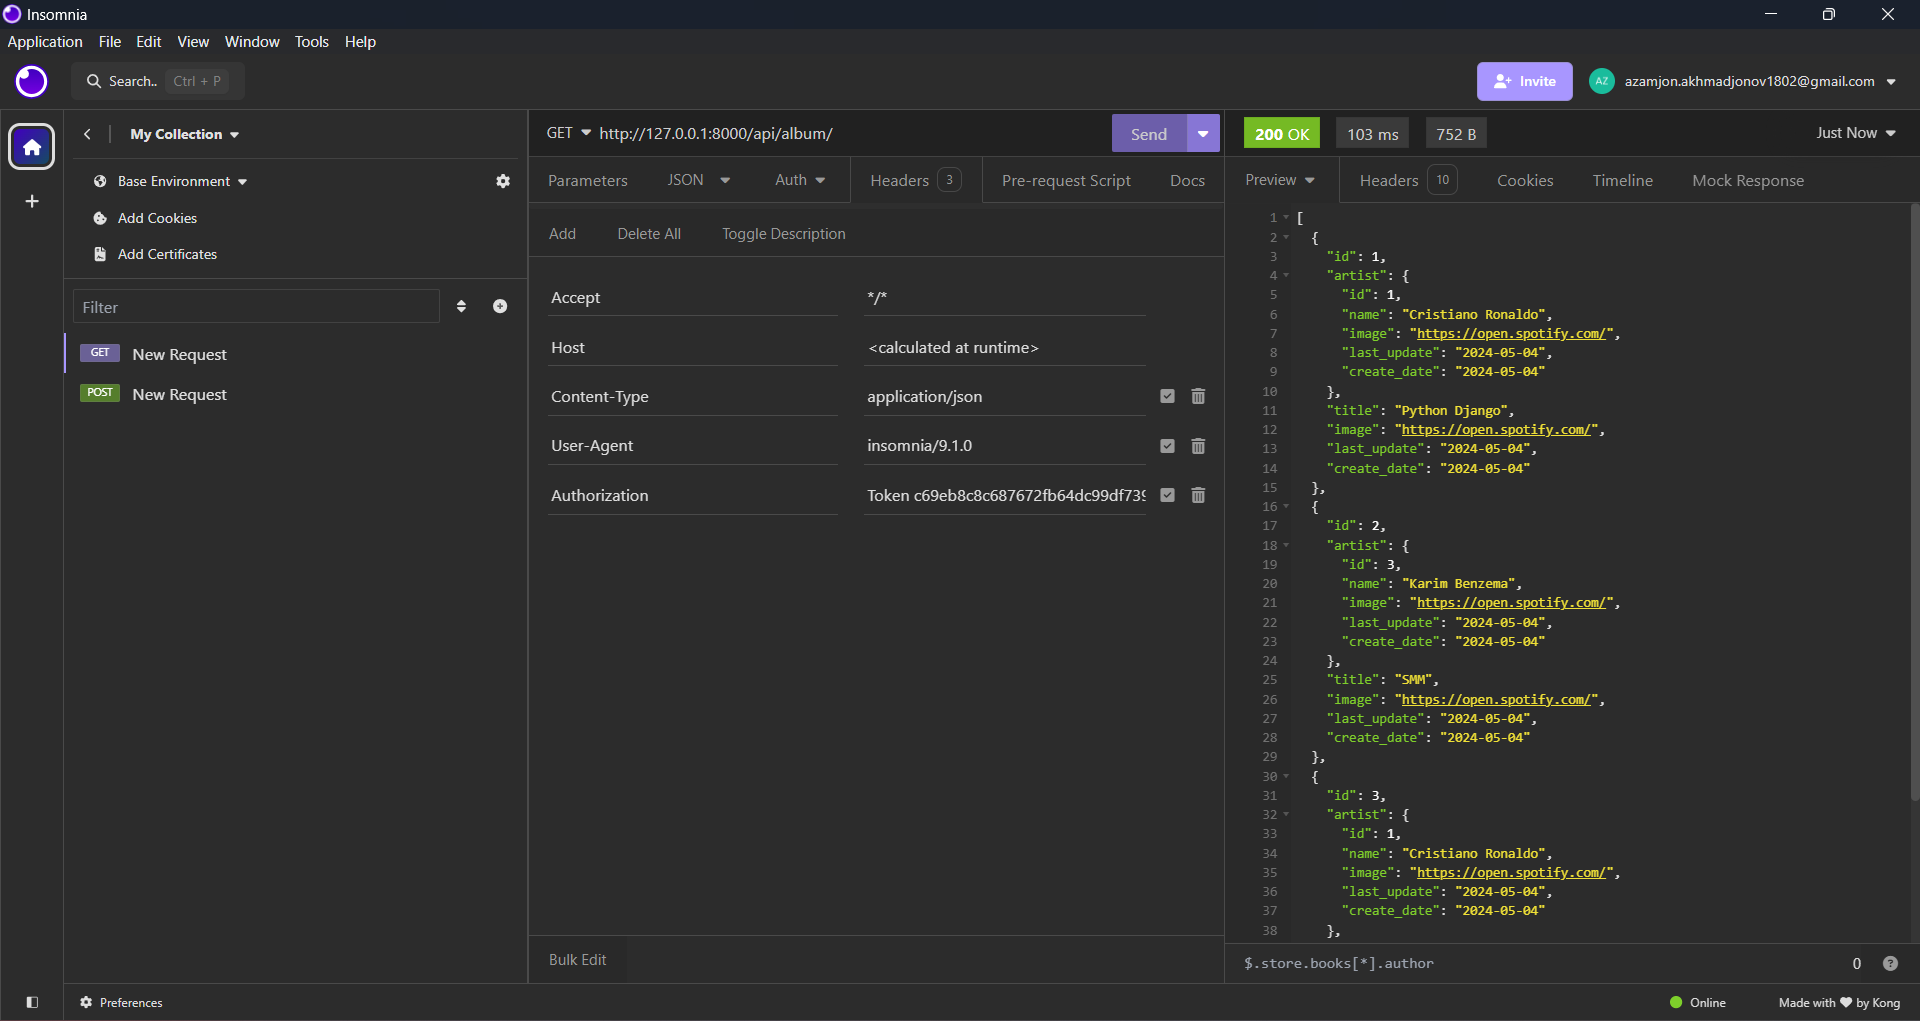
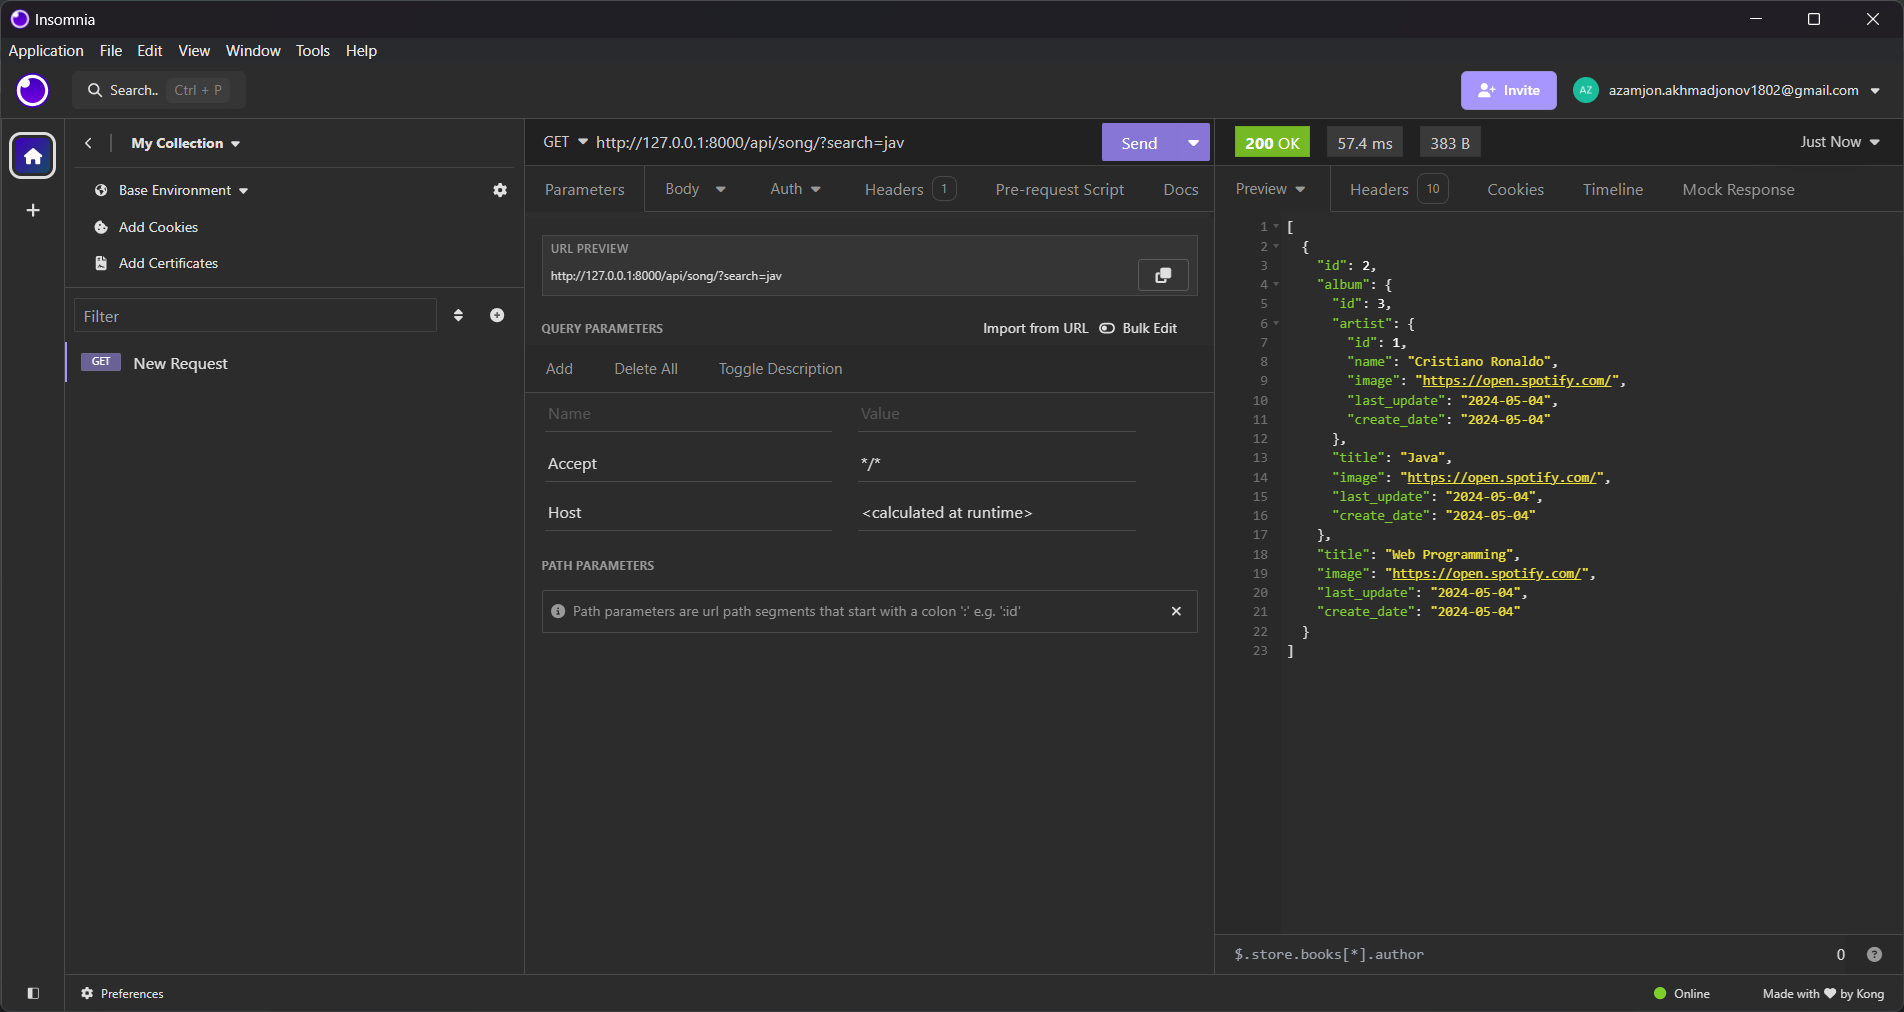
Added search fields,filter backends, pagination class

diff --git a/music/views.py b/music/views.py
@@ -5,25 +5,35 @@ from .serializers import ArtistSerializer, AlbumSerializer, SongSerializer
 from rest_framework import status
 from rest_framework.authentication import TokenAuthentication
 from rest_framework.permissions import IsAuthenticated
-
+from rest_framework import filters
+from rest_framework.pagination import LimitOffsetPagination
 
 class ArtistAPIViewSet(ModelViewSet):
     queryset = Artist.objects.all()
     serializer_class = ArtistSerializer
     authentication_classes = (TokenAuthentication,)
-    permission_classes = (IsAuthenticated,)
+    # permission_classes = (IsAuthenticated,)
+    filter_backends = (filters.SearchFilter,)
+    search_fields = ["name",]
+    pagination_class = LimitOffsetPagination
 
 
 class AlbumAPIViewSet(ModelViewSet):
     queryset = Album.objects.all()
     serializer_class = AlbumSerializer
     authentication_classes = (TokenAuthentication,)
-    permission_classes = (IsAuthenticated,)
+    # permission_classes = (IsAuthenticated,)
+    filter_backends = (filters.SearchFilter,)
+    search_fields = ["title", "artist__name",]
+    pagination_class = LimitOffsetPagination
 
 
 class SongAPIViewSet(ModelViewSet):
     queryset = Song.objects.all()
     serializer_class = SongSerializer
     authentication_classes = (TokenAuthentication,)
-    permission_classes = (IsAuthenticated,)
+    # permission_classes = (IsAuthenticated,)
+    filter_backends = (filters.SearchFilter,)
+    search_fields = ["^title", "=album__title", "$album__artist__name"]
+    pagination_class = LimitOffsetPagination
 

diff --git a/onshop/settings.py b/onshop/settings.py
@@ -42,6 +42,7 @@ INSTALLED_APPS = [
     # framework
     'rest_framework',
     'rest_framework.authtoken',
+    'django_filters',
 
 ]
 
@@ -150,3 +151,4 @@ MEDIA_ROOT = os.path.join(BASE_DIR, 'media/')
 # https://docs.djangoproject.com/en/5.0/ref/settings/#default-auto-field
 
 DEFAULT_AUTO_FIELD = 'django.db.models.BigAutoField'
+
